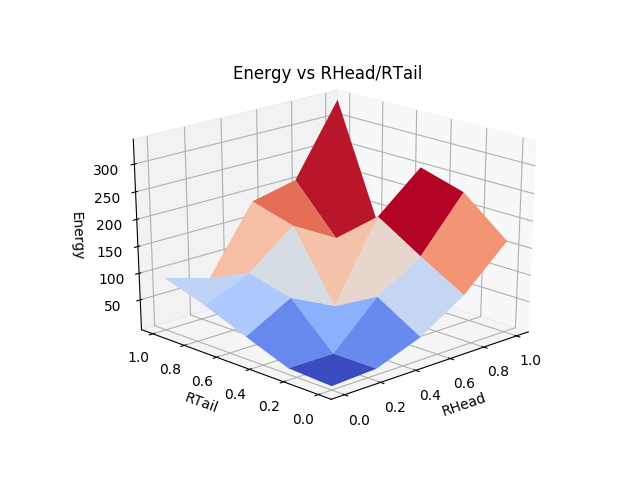
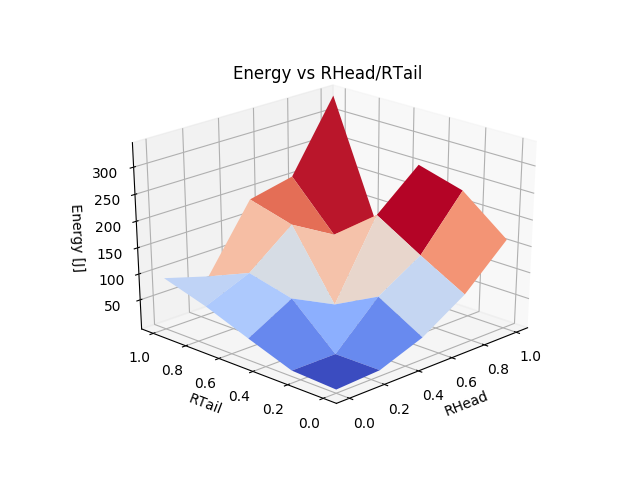
Finished 9d

diff --git a/Lab9/Webots/controllers/pythonController/plot_results.py b/Lab9/Webots/controllers/pythonController/plot_results.py
@@ -12,7 +12,7 @@ from mpl_toolkits.mplot3d import Axes3D  # Module for 3D plots
 from matplotlib import cm  # Module for color maps
 
 
-def plot_body_joints(time, joint_angles, variable='body joint angle'):
+def plot_body_joints(time, joint_angles, variable='body joint angle',title='Spine angle evolution'):
     """ Extracts and plots motor output for body joints"""
     nb_legs = 4
     nb_body = joint_angles.shape[1]-nb_legs
@@ -23,7 +23,7 @@ def plot_body_joints(time, joint_angles, variable='body joint angle'):
                  label="body joint " + str(body_joint_index))
     plt.grid()
     plt.legend()
-    plt.title(variable + " evolution")
+    plt.title(title)
 
 
 def plot_leg_joints(time, joint_angles, variable='leg joint angle'):
@@ -80,23 +80,16 @@ def plot_positions(times, link_data):
     plt.ylabel("Distance [m]")
     plt.grid(True)
     
-def plot_velocity_link(times, velocity):
+
+def plot_trajectory(link_data,label):
     """Plot positions"""
-    for i, data in enumerate(velocity.T):
-        plt.plot(times[25:], data[25:], label=["vx", "vy", "vz"][i])
+    plt.plot(link_data[:, 0], link_data[:, 2], label=label)
     plt.legend()
-    plt.xlabel("Time [s]")
-    plt.ylabel("Velocity [m/s]")
-    plt.grid(True)
-
-
-def plot_trajectory(link_data):
-    """Plot positions"""
-    plt.plot(link_data[:, 0], link_data[:, 2])
     plt.xlabel("x [m]")
     plt.ylabel("z [m]")
     plt.axis("equal")
     plt.grid(True)
+    plt.title('GPS trajectory '+ label)
 
 
 def plot_2d(results, labels, n_data=300, log=False, cmap=None):
@@ -157,12 +150,12 @@ def exercise_9c_plots():
             joints_data = data["joints"]
             rhead = data["RHead"]
             rtail = data["RTail"]
-        times = np.arange(0, timestep*np.shape(link_data)[0], timestep)
+        #times = np.arange(0, timestep*np.shape(link_data)[0], timestep)
 
 
         pos = link_data
         vel = np.diff(pos, axis=0, prepend=0)/ timestep
-        print(np.mean(vel,axis = 0))
+
         link_vel_list.append(np.linalg.norm(np.mean(vel,axis = 0)))        
         
         rhead_list.append(rhead)
@@ -193,20 +186,19 @@ def exercise_9c_plots():
     ax.plot_surface(X,Y, Z, cmap=cm.coolwarm)
     ax.set_xlabel('RHead')
     ax.set_ylabel('RTail')
-    ax.set_zlabel('Velocity')
+    ax.set_zlabel('Velocity [m/s]')
     
     """Plot the energy graph"""
     
     torque = np.array(joint_torque_list)
     velocity = np.array(joint_vel_list)
-    print(torque.shape)
-    print(velocity.shape)
+
     energy = torque*velocity*timestep
-    print(energy.shape)
+
     energy = np.sum(energy,axis = 1)
-    print(energy.shape)
+
     energy = np.sum(energy,axis = 1)
-    print(energy.shape)
+
     
     fig = plt.figure("exercise_9c_energy_plot")
     ax = fig.add_subplot(111, projection='3d')
@@ -225,13 +217,57 @@ def exercise_9c_plots():
     ax.plot_surface(X,Y, Z, cmap=cm.coolwarm)
     ax.set_xlabel('RHead')
     ax.set_ylabel('RTail')
-    ax.set_zlabel('Energy')
+    ax.set_zlabel('Energy [J]')
+    
+def exercise_9d1_plots():
+    
+    with np.load('logs/exercise_9d1/simulation_0.npz') as data:
+        timestep = float(data["timestep"])
+        link_data = data["links"][:, 0, :]
+        joints_data = data["joints"]
 
-def main(save=True):
+    times = np.arange(0, timestep*np.shape(link_data)[0], timestep)
+
+    pos = link_data      
+    
+    """Plot gps trajectory"""
+    
+    plt.figure("exercise_9d1_trajectory_plot")
+    plot_trajectory(pos,'Turning')
+
+    """Plot spine angles"""
+    joint_angles = joints_data[:,:,0]
+    
+    plot_body_joints(times[:10000], joint_angles[:10000], variable='exercise_9d1_spine_angles_plot',title='Spine angle evolution turning')
+
+def exercise_9d2_plots():
+    
+    with np.load('logs/exercise_9d2/simulation_0.npz') as data:
+        timestep = float(data["timestep"])
+        link_data = data["links"][:, 0, :]
+        joints_data = data["joints"]
+
+    times = np.arange(0, timestep*np.shape(link_data)[0], timestep)
+
+    pos = link_data      
+    
+    """Plot gps trajectory"""
+    
+    plt.figure("exercise_9d2_trajectory_plot")
+    plot_trajectory(pos,'Backwards')
+
+    """Plot spine angles"""
+    joint_angles = joints_data[:,:,0]
+    
+    plot_body_joints(times[:10000], joint_angles[:10000], variable='exercise_9d2_spine_angles_plot',title='Spine angle evolution backwards')
+
+
+def main(save=False):
     """Main"""
     # Load data
     exercise_9c_plots()
-
+    exercise_9d1_plots()
+    exercise_9d2_plots()
     # Show plots
     if save:
         save_figures()
@@ -239,5 +275,5 @@ def main(save=True):
 
 
 if __name__ == '__main__':
-    main(save=True)
+    main(save=False)
 
